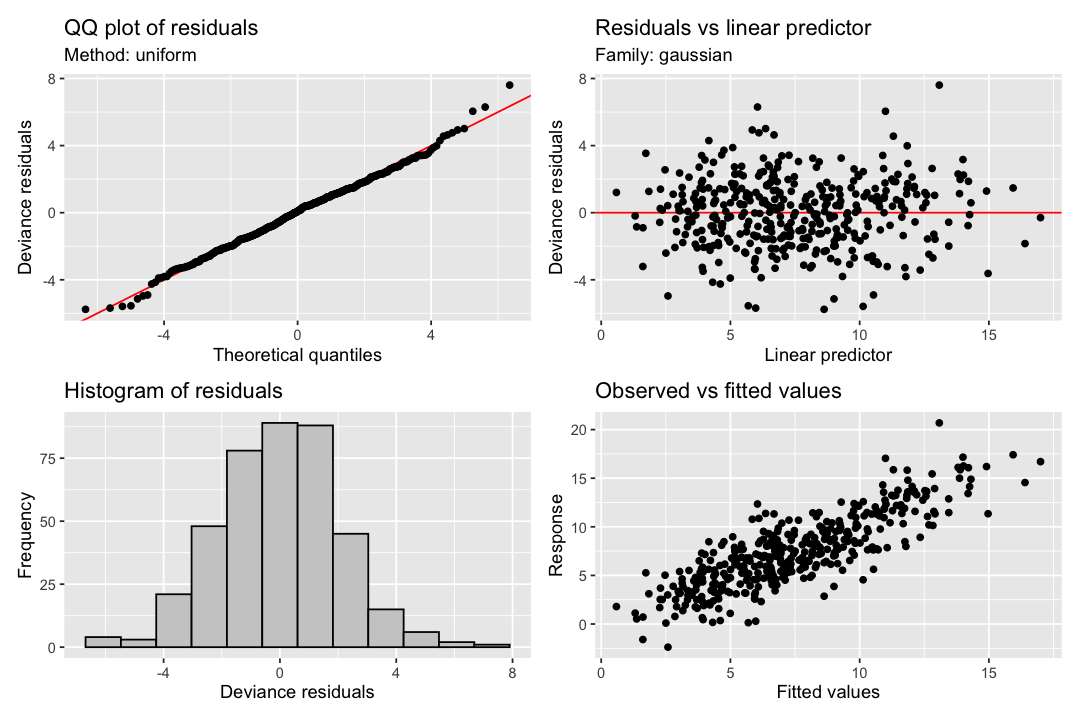
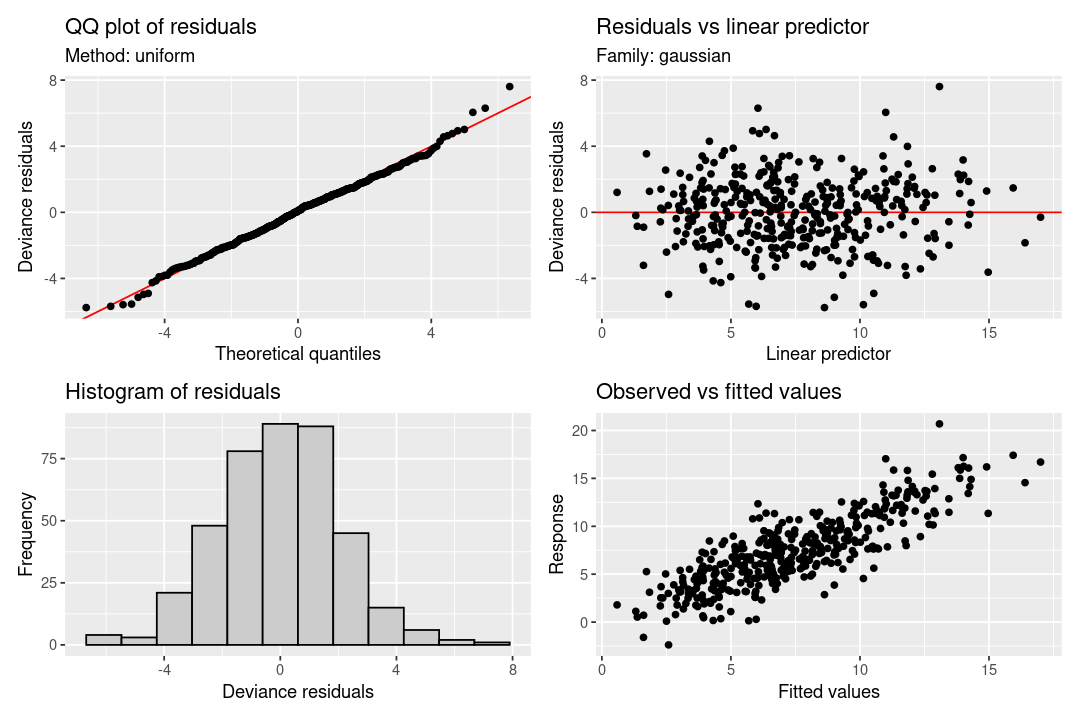
Re-build README.Rmd

diff --git a/README.md b/README.md
@@ -1,4 +1,3 @@
-
 <!-- README.md is generated from README.Rmd. Please edit that file -->
 
 # gratia
@@ -8,7 +7,7 @@
 [![R build
 status](https://github.com/gavinsimpson/gratia/workflows/R-CMD-check/badge.svg)](https://github.com/gavinsimpson/gratia/actions)
 [![codecov](https://codecov.io/gh/gavinsimpson/gratia/branch/main/graph/badge.svg?token=GG5NQfgRFu)](https://app.codecov.io/gh/gavinsimpson/gratia)
-[![CRAN_Status_Badge](https://www.r-pkg.org/badges/version/gratia)](https://cran.r-project.org/package=gratia)
+[![CRAN\_Status\_Badge](https://www.r-pkg.org/badges/version/gratia)](https://cran.r-project.org/package=gratia)
 [![CRAN
 Downloads](https://cranlogs.r-pkg.org/badges/grand-total/gratia)](https://cran.r-project.org/package=gratia)
 <!-- badges: end -->
@@ -25,72 +24,66 @@ smooths.
 
 The main features of *gratia* are currently
 
-- A *ggplot2*-based replacement for `mgcv:::plot.gam()`: `draw.gam()`.
+-   A *ggplot2*-based replacement for `mgcv:::plot.gam()`: `draw.gam()`.
 
-  For example, the classic four term additive example from Gu & Wahba:
+    For example, the classic four term additive example from Gu & Wahba:
 
-  <figure>
-  <img src="man/figures/README-draw-gam-figure-1.png"
-  alt="Estimated smooths from a GAM" />
-  <figcaption aria-hidden="true">Estimated smooths from a GAM</figcaption>
-  </figure>
+    <figure>
+    <img src="man/figures/README-draw-gam-figure-1.png"
+    alt="Estimated smooths from a GAM" />
+    <figcaption aria-hidden="true">Estimated smooths from a GAM</figcaption>
+    </figure>
 
-  Or for a bivariate smooth:
+    Or for a bivariate smooth:
 
-  <figure>
-  <img src="man/figures/README-draw-gam-figure-2d-1.png"
-  alt="Estimated smooths from a GAM" />
-  <figcaption aria-hidden="true">Estimated smooths from a GAM</figcaption>
-  </figure>
+    <figure>
+    <img src="man/figures/README-draw-gam-figure-2d-1.png"
+    alt="Estimated smooths from a GAM" />
+    <figcaption aria-hidden="true">Estimated smooths from a GAM</figcaption>
+    </figure>
 
-  Note that some specialist smoothers (`bs %in% c("mrf","sw", "sf")`)
-  are not currently supported, but univariate, *factor* and *continuous*
-  `by`-variable smooths, simple random effect smooths (`bs = 're'`),
-  factor-smooth interaction smooths (`bs = "fs"`), constrained factor
-  smooths (`bs = "sz"`), full soap film smooths (`bs = "so"`), and
-  bivariate, trivariate, and quadvariate TPRS and tensor product smooths
-  are supported,
+    Note that some specialist smoothers (`bs %in% c("mrf","sw", "sf")`)
+    are not currently supported, but univariate, *factor* and
+    *continuous* `by`-variable smooths, simple random effect smooths
+    (`bs = 're'`), factor-smooth interaction smooths (`bs = "fs"`),
+    constrained factor smooths (`bs = "sz"`), full soap film smooths
+    (`bs = "so"`), and bivariate, trivariate, and quadvariate TPRS and
+    tensor product smooths are supported,
 
-- Estimation of derivatives of fitted smoothers: `derivatives()`,
+-   Estimation of derivatives of fitted smoothers: `derivatives()`,
 
-- Estimation of point-wise across-the-function confidence intervals and
-  simultaneous intervals for smooths: `confint.gam()`.
+-   Estimation of point-wise across-the-function confidence intervals
+    and simultaneous intervals for smooths: `confint.gam()`.
 
-- Model diagnostics via `appraise()`
+-   Model diagnostics via `appraise()`
 
-  <figure>
-  <img src="man/figures/README-appraise-figure-1.png"
-  alt="Model diagnostics figure" />
-  <figcaption aria-hidden="true">Model diagnostics figure</figcaption>
-  </figure>
+    <figure>
+    <img src="man/figures/README-appraise-figure-1.png"
+    alt="Model diagnostics figure" />
+    <figcaption aria-hidden="true">Model diagnostics figure</figcaption>
+    </figure>
 
 ## Installing *gratia*
 
 *gratia* is now available on CRAN, and can be installed with
 
-``` r
-install.packages("gratia")
-```
+    install.packages("gratia")
 
 however *gratia* is under active development and you may wish to install
 the development version from github. The easiest way to do this is via
 the `install_github()` function from package *remotes*. Make sure you
 have *remotes* installed, then run
 
-``` r
-remotes::install_github("gavinsimpson/gratia")
-```
+    remotes::install_github("gavinsimpson/gratia")
 
 to install the package. Alternatively, binary packages of the
 development version are available from rOpenSci’s R Universe service:
 
-``` r
-# Install gratia in R
-install.packages("gratia", repos = c(
-  "https://gavinsimpson.r-universe.dev",
-  "https://cloud.r-project.org"
-))
-```
+    # Install gratia in R
+    install.packages("gratia", repos = c(
+      "https://gavinsimpson.r-universe.dev",
+      "https://cloud.r-project.org"
+    ))
 
 ## History
 
